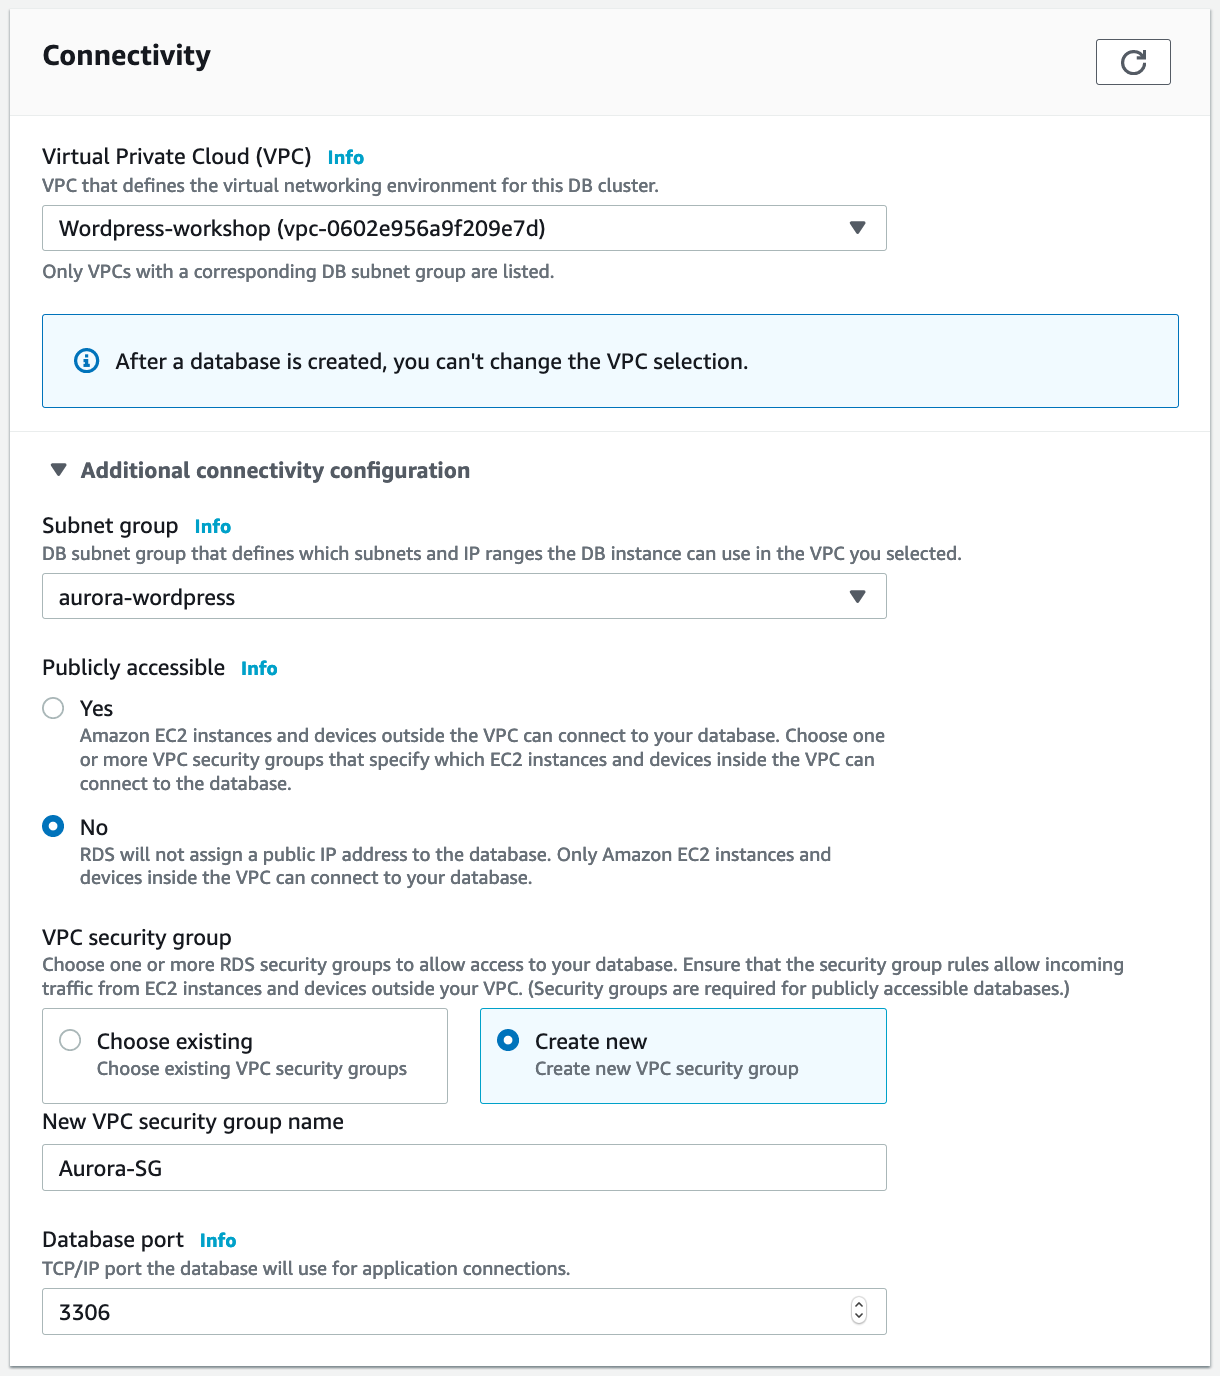
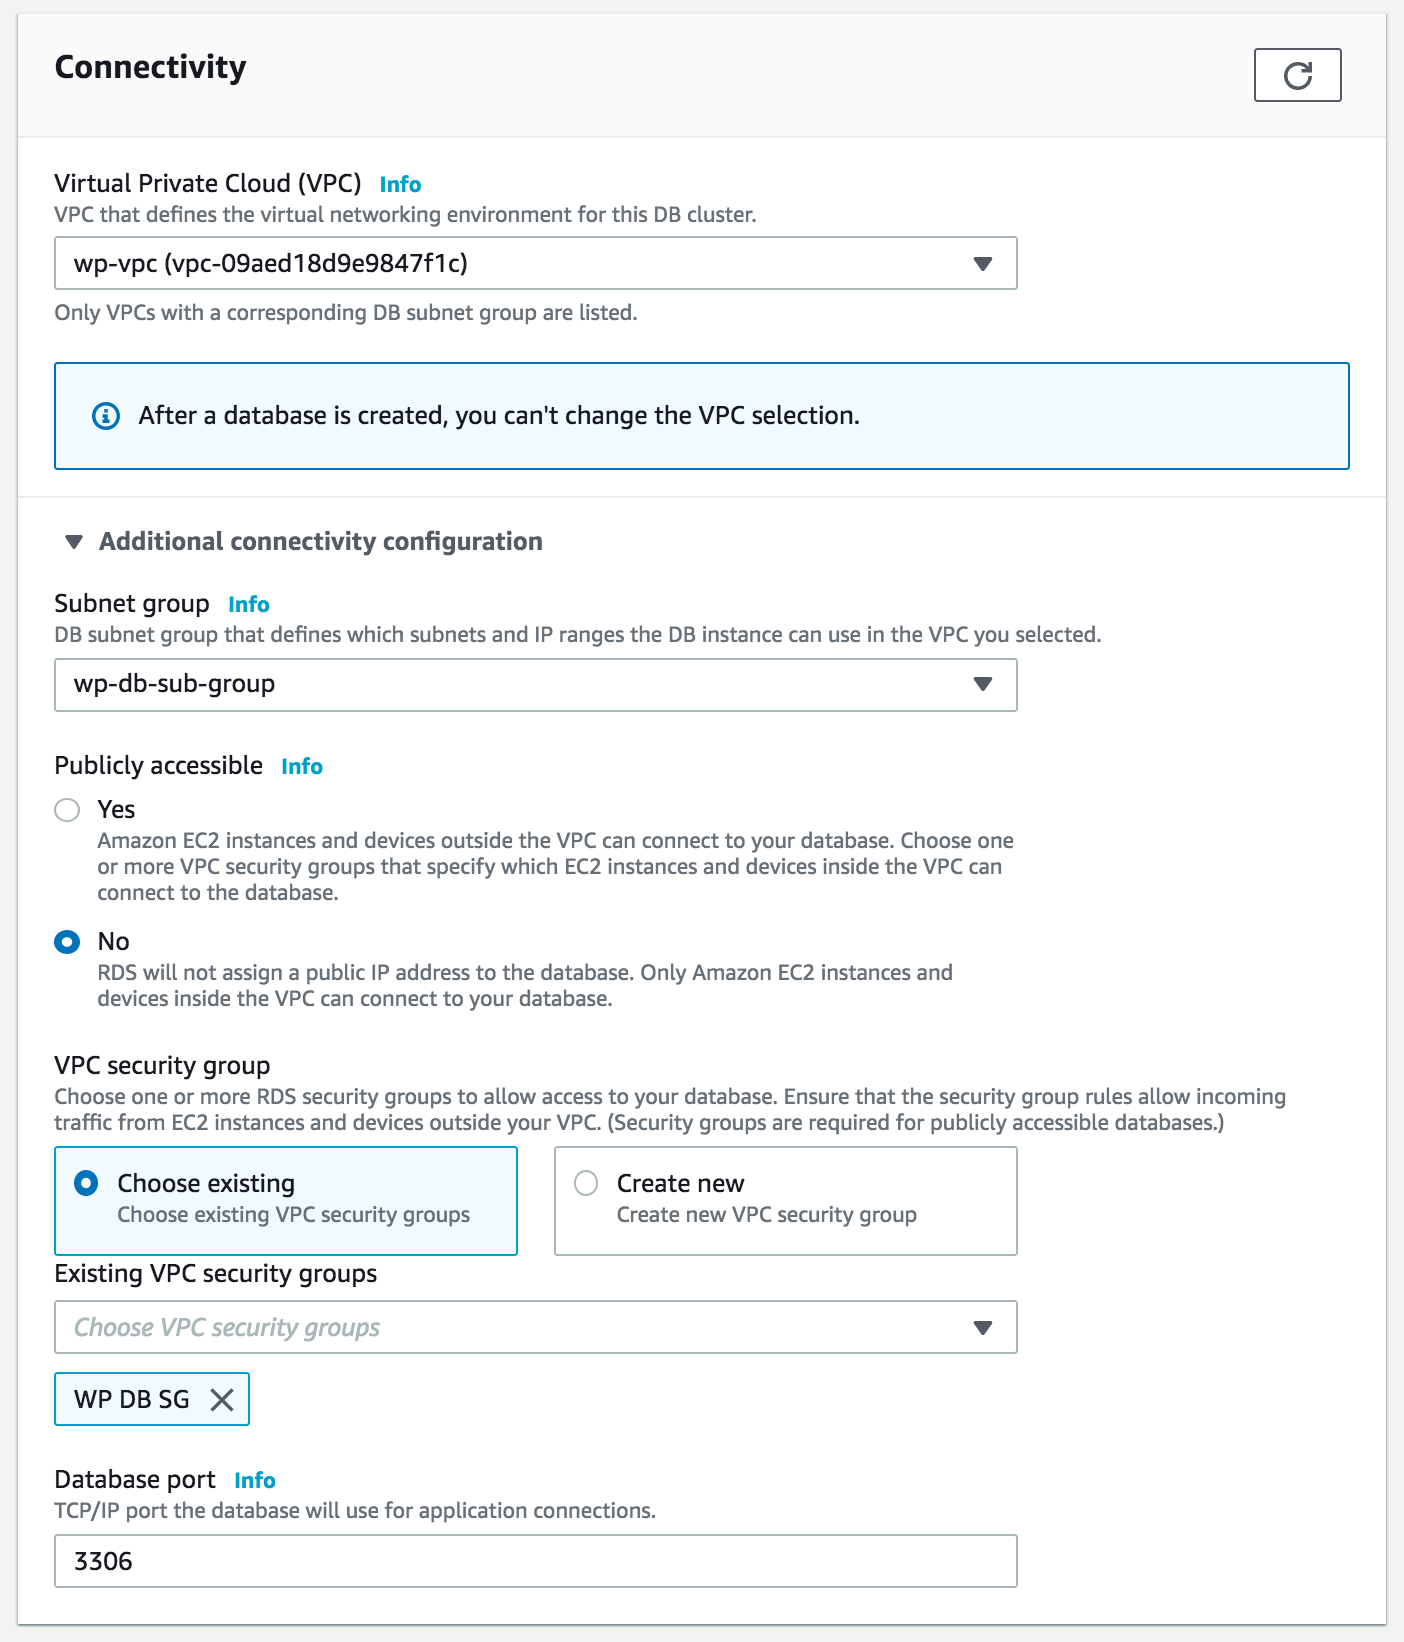
reviewed and revised labs 1 thru 4 adding details about dns hostnames and security groups

diff --git a/content/database/lab2.md b/content/database/lab2.md
@@ -3,6 +3,14 @@ title: "Lab 2: Set up your RDS database"
 weight: 200
 ---
 
+## Create database security groups
+
+Visit the [AWS VPC console](https://console.aws.amazon.com/vpc/home) and create 2 security groups.  The first security group should be named something like *WP Database Client SG* and the second security group should be named *WP Database SG*.  
+
+With both groups created edit the **Inbound Rules** of the *WP Database SG* security group and create a rule of type *MySQL / Aurora* which allows traffic on port `3306` from the *WP Database Client SG*.
+
+Now you are ready to create your RDS database.
+
 ### Create an RDS subnet group
 
 Amazon RDS provides managed database deployments.  When you use Amazon RDS to deploy a database in a highly available fashion it will create 2 instances in 2 different availability zones.  To do this, when you create a database deployment you specify a subnet group which tells RDS in which subnets it can deploy your database instances.  
@@ -34,19 +42,17 @@ Select the DB instance size together with a Multi-AZ deployment, required for hi
 
 ![Figure 6](/images/rds6.png)
 
-In the connectivity section, make sure you select the correct VPC, together with the DB subnet group created earlier:
+In the connectivity section, make sure you select the correct VPC, together with the DB subnet group, and security group created earlier:
 
 ![Figure 7](/images/rds7.png)
 
-Finally, click on Create database to start building the cluster:
+Expand **Additional configuration** and specify an **Initial database name** of *wordpress*.
+
+Finally, click on **Create database** to start building the cluster:
 
 ![Figure 8](/images/rds8.png)
 
-The database will take a few minutes to be provisioned and made available.  While it is being setup you will modify the security group that you specified.  You will create a *database client* security group and only allow this security group to access your database.  To do this start by visiting the [AWS VPC console](https://console.aws.amazon.com/vpc/home).
-
-Click on **Security Groups** in the left-hand side menu to get started.  Next create the client security group by clicking **Create security group** and give your client security group a name such as `WP Database Client SG`.  Give your security group a description and associate it with your VPC, then click **Create**.
-
-Return to the list of security groups and select the security group that was created for your database.  If you review the **Inbound Rules** it will show a single rule allowing communication with the database from the IP address of the device you used to create the database.  Modify this rule to only allow communication from the security group you created in the previous step.
+The database will take a few minutes to be provisioned and made available.  
 
 ---
 

diff --git a/content/database/lab3.md b/content/database/lab3.md
@@ -17,7 +17,7 @@ Now you are ready to create your Memcached instance.
 
 ## Create an ElastiCache Memcached instance
 
-To create an ElastiCache instance open the [Amazon ElastiCache console](https://console.aws.amazon.com/elasticache/home) and click on **Memcached** and finally click on **Create** to spin up your first cluster:
+To create an ElastiCache instance open the [Amazon ElastiCache console](https://console.aws.amazon.com/elasticache/home) and click on **Memcached**, and click on **Create** to spin up your first cluster. Ensure that **Memcached** is selected and you have given your cache a name.
 
 ![Figure 1](/images/ec1.png)
 

diff --git a/content/application/lab4.md b/content/application/lab4.md
@@ -27,6 +27,8 @@ To complete the setup of your EFS cluster click **Create File System**.
 
 This will create two mount targets in your subnets and after a few minutes the targets will reach a state of *Available*. 
 
+![EFS Complete](/images/efs_complete.png)
+
 ---
 
 You now have an EFS cluster ready and available for your use.  In the next lab you will create the application servers that will connect to and use these resources to serve your clients.

diff --git a/content/introduction/lab1.md b/content/introduction/lab1.md
@@ -49,7 +49,7 @@ The gateway will be used by instances and services hosted in the public subnets 
 Subnet A and Public Subnet B) to communicate over the Internet.
 
 Once the gateway is created you will need to create a new routing table and associate it with
-the public subnets:
+the public subnets.  Create a new route table by selecting **Route tables** in the left-hand menu of the console.
 
 ![Figure 13](/images/figure13.png)
 
